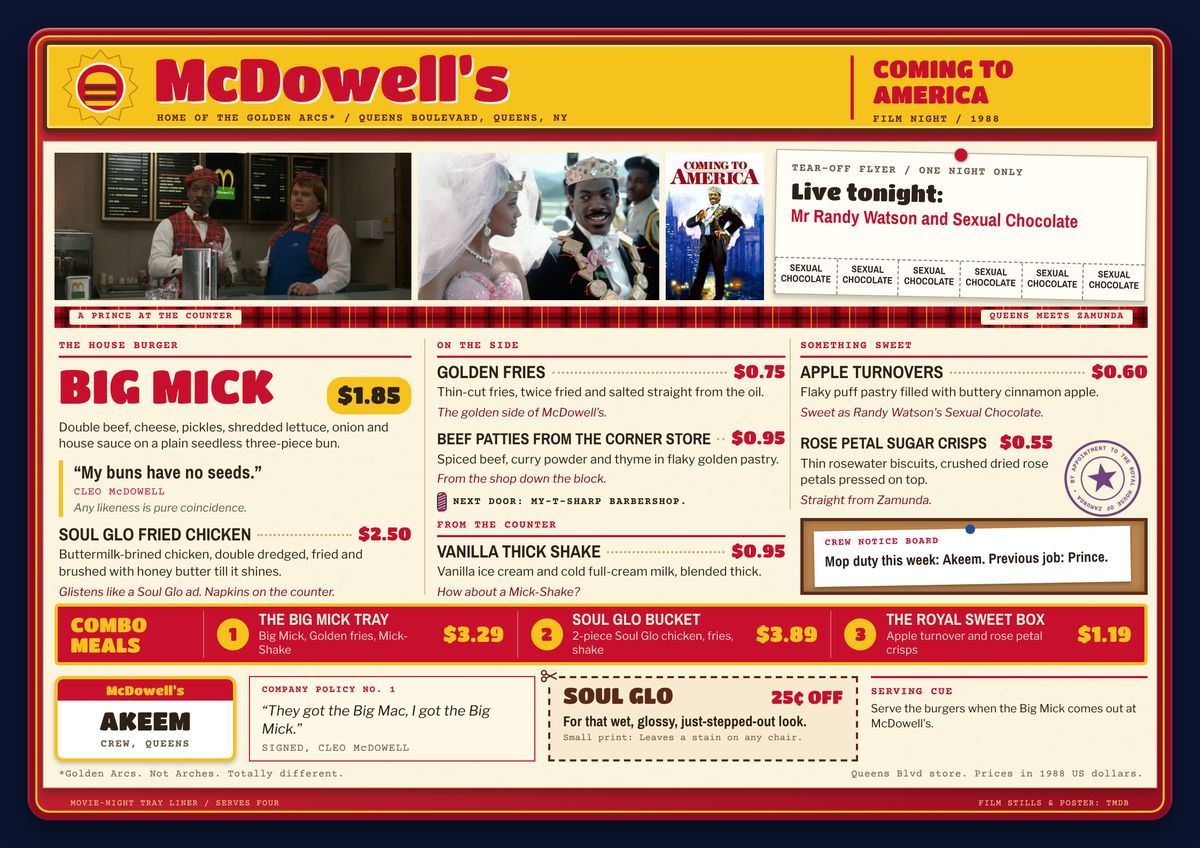
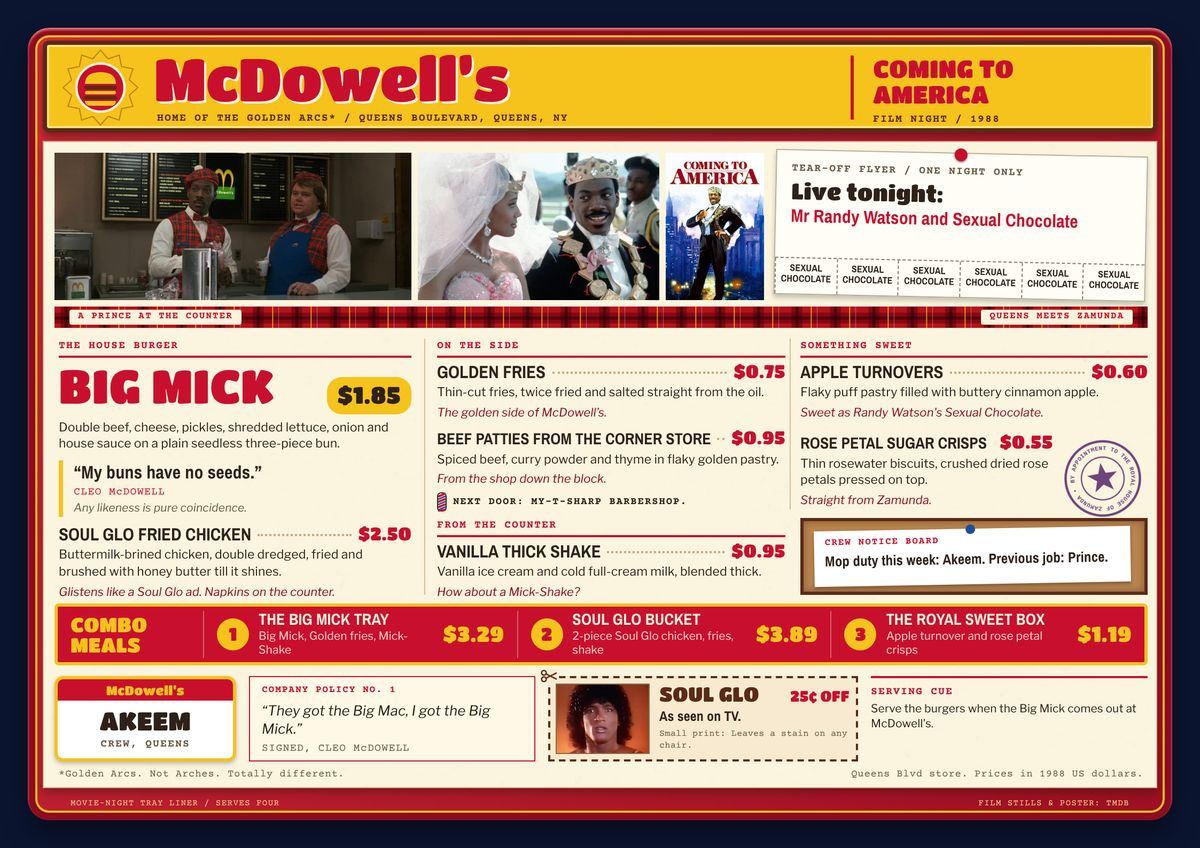
Coming to America: Soul Glo coupon uses the film's ad frame
Claude-Session: https://claude.ai/code/session_01W3UAnBZ4mb6waFnyzW2A4e

Changed region(s): [[0.4625, 0.7972, 0.7092, 0.8892]]

diff --git a/formats-core.js b/formats-core.js
@@ -209,7 +209,7 @@ function fmtMcdowellsMark(style=""){
 
 /* which film uses which printed menu, and the version of each menu file (generated) */
 const FMT_INDEX={"There's Something About Mary (1998)":"nowshowing","She's All That (1999)":"seniorprom","The Big Lebowski (1998)":"starlanes","Hook (1991)":"neverfeast","Planes, Trains and Automobiles (1987)":"braidwood","Wall-E (2008)":"axiom","Sleepless in Seattle (1993)":"latenightcall","You've Got Mail (1998)":"bookshopcafe","Tootsie (1982)":"dorothysupper","Manhattan (1979)":"gershwinfolio","Annie Hall (1977)":"annietable","Trading Places (1983)":"orangefutures","Quick Change (1990)":"getawaysupper","Brewster's Millions (1985)":"spenditall","The Secret of My Success (1987)":"mailroomexecutive","Working Girl (1988)":"powerlunch","Three Men and a Baby (1987)":"loftsupper","Splash (1984)":"oceansupper","Big (1988)":"toystore","C.H.U.D. (1984)":"bowerybelow","The Out-of-Towners (1970)":"eventually","The Adjustment Bureau (2011)":"unplanned","Frequency (2000)":"sullivansupper","16 Blocks (2006)":"sixteen","Premium Rush (2012)":"messenger","After Hours (1985)":"sohoaftermidnight","Money Train (1995)":"lasttrain","Inside Man (2006)":"negotiation","Léon: The Professional (1994)":"leon","Die Hard with a Vengeance (1995)":"cityrun","Ghost Dog: The Way of the Samurai (1999)":"rooftop","King of New York (1990)":"plazanight","Escape from New York (1981)":"escape","The Taking of Pelham One Two Three (1974)":"shift","The French Connection (1971)":"acrossglass","Serpico (1973)":"serpico","Dog Day Afternoon (1975)":"brooklyn","Midnight Cowboy (1969)":"southbound","Taxi Driver (1976)":"nightshift","Home Alone 2: Lost in New York (1992)":"suite","Spider-Man (2002)":"maytable","Spider-Man 2 (2004)":"pizzatime","Teenage Mutant Ninja Turtles II: The Secret of the Ooze (1991)":"ooze","Teenage Mutant Ninja Turtles III (1993)":"teahouse","Teenage Mutant Ninja Turtles: Mutant Mayhem (2023)":"shipyard","Ghostbusters II (1989)":"moodslime","Road to Perdition (2002)":"perdition","The Departed (2006)":"southie","Things to Do in Denver When You're Dead (1995)":"boatdrinks","Saturday Night Fever (1977)":"fever","Raging Bull (1980)":"cornerside","The Freshman (1990)":"carmine","Get Shorty (1995)":"shorty","Bugsy (1991)":"flamingo","Miller's Crossing (1990)":"highhat","The Pope of Greenwich Village (1984)":"village","Mickey Blue Eyes (1999)":"collection","Analyze This (1999)":"sobelsupper","Prizzi's Honor (1985)":"prizzis","Scarface (1983)":"miami","Mean Streets (1973)":"afterhours","Donnie Brasco (1997)":"leftys","Carlito's Way (1993)":"paraiso","Once Upon a Time in America (1984)":"delancey","The Godfather Part III (1990)":"palermo","Casino (1995)":"tangiers","A Bronx Tale (1993)":"bippy","The Godfather Part II (1974)":"corleone2","Beetlejuice (1988)":"maitland","A Goofy Movie (1995)":"roadtrip","The Godfather (1972)":"corleone","Julie & Julia (2009)":"kitchenfolio","Moonstruck (1987)":"moonlit","Elf (2003)":"gimbels","Teenage Mutant Ninja Turtles (1990)":"lair","Lady and the Tramp (1955)":"tonys","Fried Green Tomatoes (1991)":"whistle","Do the Right Thing (1989)":"sals","Coming to America (1988)":"mcdowells","The Warriors (1979)":"coney","Die Hard (1988)":"nakatomi","Jurassic Park (1993)":"jurassic","Anchorman: The Legend of Ron Burgundy (2004)":"newsroom","Friday (1995)":"market","Big Trouble in Little China (1986)":"takeaway","My Cousin Vinny (1992)":"diner","The Untouchables (1987)":"casefile","Kung Fu Panda (2008)":"noodle","Pulp Fiction (1994)":"slims","Ghostbusters (1984)":"workorder","Home Alone (1990)":"nero","Ratatouille (2007)":"carte","Big Night (1996)":"feast","Chef (2014)":"truck","When Harry Met Sally... (1989)":"check","Back to the Future (1985)":"lous","Goodfellas (1990)":"pad"};
-const FMT_VER={"nowshowing":"60b3a558","seniorprom":"c78b5f98","starlanes":"4feba724","neverfeast":"0c00ac91","braidwood":"442c9504","axiom":"f8e03639","latenightcall":"1475476e","bookshopcafe":"689047cc","dorothysupper":"5fa91721","gershwinfolio":"2e4bf01e","annietable":"c88d81ac","orangefutures":"0749771a","getawaysupper":"854458bc","spenditall":"9a4d8255","mailroomexecutive":"e11e5ab7","powerlunch":"59cf8bb7","loftsupper":"6b1a2522","oceansupper":"a89dff67","toystore":"0d412e45","bowerybelow":"c9ca6b12","eventually":"9fa6aeff","unplanned":"68fd28e6","sullivansupper":"0549db08","sixteen":"556ddea0","messenger":"516f5b79","sohoaftermidnight":"0bb9d0fd","lasttrain":"0f7f7649","negotiation":"d9772c2d","leon":"b3f54011","cityrun":"9ec4405f","rooftop":"c201e934","plazanight":"35555ec1","escape":"ade3d671","shift":"3a70df1f","acrossglass":"ec59189c","serpico":"d49eef24","brooklyn":"43c49f45","southbound":"2da4c7a7","nightshift":"d1f20baa","suite":"703595f2","maytable":"ca24b9ce","pizzatime":"b2e7803a","ooze":"6f871e9b","teahouse":"62cd890d","shipyard":"8b997681","moodslime":"2fa8c10a","perdition":"4791e1c6","southie":"3bd96e13","boatdrinks":"c917ad7a","fever":"0a388942","cornerside":"bb714ec0","carmine":"f0659482","shorty":"80f3713a","flamingo":"5a3d8c6f","highhat":"dfca9aa5","village":"1d812eb5","collection":"e6f1415a","sobelsupper":"b4ac0553","prizzis":"c0685334","miami":"5b01df05","afterhours":"12faf3dc","leftys":"1764047e","paraiso":"17aa7e2b","delancey":"c6a94fb0","palermo":"848e2947","tangiers":"eea8d69f","bippy":"8f3b86a9","corleone2":"f0de1673","maitland":"622a2580","roadtrip":"c1b6590e","corleone":"3f18e541","chocolaterie":"bf482065","kitchenfolio":"4fea8c09","moonlit":"000ce340","gimbels":"a4fb9329","lair":"8cc54514","tonys":"df195b83","whistle":"4c68500e","sals":"1e5a20e6","mcdowells":"8cc3beda","coney":"da70e5bd","nakatomi":"f35da938","jurassic":"bd68e70b","newsroom":"8322f147","market":"9a3f9784","takeaway":"17240719","diner":"dc916095","casefile":"2aa139fb","noodle":"730e24a2","slims":"cffe1181","lanes":"bf7ab162","workorder":"5b705856","nero":"3b408b04","carte":"368016cb","feast":"ab37a96b","truck":"fefb1507","check":"fc5f5414","lous":"73d83092","pad":"1482658a"};
+const FMT_VER={"nowshowing":"60b3a558","seniorprom":"c78b5f98","starlanes":"4feba724","neverfeast":"0c00ac91","braidwood":"442c9504","axiom":"f8e03639","latenightcall":"1475476e","bookshopcafe":"689047cc","dorothysupper":"5fa91721","gershwinfolio":"2e4bf01e","annietable":"c88d81ac","orangefutures":"0749771a","getawaysupper":"854458bc","spenditall":"9a4d8255","mailroomexecutive":"e11e5ab7","powerlunch":"59cf8bb7","loftsupper":"6b1a2522","oceansupper":"a89dff67","toystore":"0d412e45","bowerybelow":"c9ca6b12","eventually":"9fa6aeff","unplanned":"68fd28e6","sullivansupper":"0549db08","sixteen":"556ddea0","messenger":"516f5b79","sohoaftermidnight":"0bb9d0fd","lasttrain":"0f7f7649","negotiation":"d9772c2d","leon":"b3f54011","cityrun":"9ec4405f","rooftop":"c201e934","plazanight":"35555ec1","escape":"ade3d671","shift":"3a70df1f","acrossglass":"ec59189c","serpico":"d49eef24","brooklyn":"43c49f45","southbound":"2da4c7a7","nightshift":"d1f20baa","suite":"703595f2","maytable":"ca24b9ce","pizzatime":"b2e7803a","ooze":"6f871e9b","teahouse":"62cd890d","shipyard":"8b997681","moodslime":"2fa8c10a","perdition":"4791e1c6","southie":"3bd96e13","boatdrinks":"c917ad7a","fever":"0a388942","cornerside":"bb714ec0","carmine":"f0659482","shorty":"80f3713a","flamingo":"5a3d8c6f","highhat":"dfca9aa5","village":"1d812eb5","collection":"e6f1415a","sobelsupper":"b4ac0553","prizzis":"c0685334","miami":"5b01df05","afterhours":"12faf3dc","leftys":"1764047e","paraiso":"17aa7e2b","delancey":"c6a94fb0","palermo":"848e2947","tangiers":"eea8d69f","bippy":"8f3b86a9","corleone2":"f0de1673","maitland":"622a2580","roadtrip":"c1b6590e","corleone":"3f18e541","chocolaterie":"bf482065","kitchenfolio":"4fea8c09","moonlit":"000ce340","gimbels":"a4fb9329","lair":"8cc54514","tonys":"df195b83","whistle":"4c68500e","sals":"1e5a20e6","mcdowells":"a13edec6","coney":"da70e5bd","nakatomi":"f35da938","jurassic":"bd68e70b","newsroom":"8322f147","market":"9a3f9784","takeaway":"17240719","diner":"dc916095","casefile":"2aa139fb","noodle":"730e24a2","slims":"cffe1181","lanes":"bf7ab162","workorder":"5b705856","nero":"3b408b04","carte":"368016cb","feast":"ab37a96b","truck":"fefb1507","check":"fc5f5414","lous":"73d83092","pad":"1482658a"};
 const _fmtLoads={};
 /* fetch a film's menu file the first time it is needed; resolves straight away when there is none */
 function fmtLoad(f){

diff --git a/formats.js b/formats.js
@@ -1571,7 +1571,7 @@ function fmtMcdowells(f,spec,menu,poster){
   const combos=`<div style="${at(10,432,1023,`height:58px;background:${R};border:3px solid ${Y};border-radius:4px;display:flex;align-items:center;box-sizing:border-box`)}"><div style="flex:none;width:136px;padding-left:12px"><div style="${D};font-size:19px;line-height:1;color:${Y}">COMBO<br>MEALS</div></div>${combo(1,'The Big Mick tray','Big Mick, Golden fries, Mick-Shake','$3.29')}${combo(2,'Soul Glo bucket','2-piece Soul Glo chicken, fries, shake','$3.89')}${combo(3,'The royal sweet box','Apple turnover and rose petal crisps','$1.19')}</div>`;
   const badge=`<div style="${at(10,500,170,`height:80px;background:#fff;border:3px solid ${Y};border-radius:8px;box-shadow:0 2px 4px rgba(0,0,0,.25);overflow:hidden;box-sizing:border-box`)}"><div style="background:${R};height:20px;${D};font-size:12px;line-height:20px;text-align:center;color:${Y}">McDowell’s</div><div style="${D};font-size:24px;line-height:1.05;text-align:center;color:${I};margin-top:6px">AKEEM</div>${micro('Crew, Queens',M,'text-align:center;margin-top:3px')}</div>`;
   const policy=`<div style="${at(192,500,268,`height:80px;border:1.5px solid ${R};background:#fff8e6;padding:7px 11px;box-sizing:border-box`)}">${micro('Company policy no. 1',R,'font-size:9px')}<div style="${B};font-style:italic;font-size:13px;line-height:1.3;color:${I};margin-top:4px">"They got the Big Mac, I got the Big Mick."</div><div style="${T};font-size:10px;letter-spacing:.06em;color:${M};margin-top:4px">SIGNED, CLEO McDOWELL</div></div>`;
-  const coupon=`<div style="${at(472,500,290,`height:80px;border:2px dashed ${BROWN};background:#f8ead0;padding:6px 12px;box-sizing:border-box`)}"><img src="assets/menu-art/mcdowells-scissors.png" alt="" aria-hidden="true" style="position:absolute;left:-9px;top:-8px;background:#f8ead0;width:16px;height:12px;display:block"><div style="display:flex;justify-content:space-between;align-items:baseline"><div style="${D};font-size:21px;line-height:1;color:${BROWN}">SOUL GLO</div><div style="${D};font-size:17px;color:${R}">25¢ OFF</div></div><div style="${N};font-size:13.5px;font-weight:700;line-height:1.2;color:${I};margin-top:3px">For that wet, glossy, just-stepped-out look.</div><div style="${T};font-size:9px;line-height:1.3;color:${M};margin-top:3px">Small print: Leaves a stain on any chair.</div></div>`;
+  const coupon=`<div style="${at(472,500,290,`height:80px;border:2px dashed ${BROWN};background:#f8ead0;box-sizing:border-box`)}"><img src="assets/menu-art/mcdowells-scissors.png" alt="" aria-hidden="true" style="position:absolute;left:-9px;top:-8px;background:#f8ead0;width:16px;height:12px;display:block"><img src="assets/menu-art/mcdowells-soulglo.png" alt="Frame from the Soul Glo TV ad in the film" style="${at(5,5,88,'height:66px;object-fit:cover;display:block;border:1px solid #8a6a4a')}"><div style="${at(102,5,178)}"><div style="display:flex;justify-content:space-between;align-items:baseline"><div style="${D};font-size:19px;line-height:1;color:${BROWN}">SOUL GLO</div><div style="${D};font-size:14px;color:${R}">25¢ OFF</div></div><div style="${N};font-size:13px;font-weight:700;line-height:1.15;color:${I};margin-top:4px">As seen on TV.</div><div style="${T};font-size:8.5px;line-height:1.25;color:${M};margin-top:3px">Small print: Leaves a stain on any chair.</div></div></div>`;
   const cue=`<div style="${at(774,500,259,`height:80px;border-top:2px solid ${R};padding-top:6px;box-sizing:border-box`)}">${micro('Serving cue')}<div style="${B};font-size:10.5px;line-height:1.35;color:${I};margin-top:3px">${ESC(fmtCue(f))}</div></div>`;
   const notice=`<div style="${at(708,352,325,`height:72px;background:${CORK};border:3px solid ${BROWN};box-sizing:border-box;box-shadow:inset 0 0 8px rgba(60,30,10,.4)`)}"><div style="${at(10,7,296,`height:52px;background:#fff;box-shadow:0 2px 3px rgba(0,0,0,.3);transform:rotate(-1deg);padding:6px 10px;box-sizing:border-box`)}"><i aria-hidden="true" style="${at(142,-4,9,`height:9px;border-radius:50%;background:#1d4f9c`)}"></i>${micro('Crew notice board',R,'font-size:9px')}<div style="${N};font-size:13.5px;font-weight:700;line-height:1.2;color:${I};margin-top:2px">Mop duty this week: Akeem. Previous job: Prince.</div></div></div>`;
   const liner=`<section style="${at(14,106,1043,`height:606px;background:${P};box-shadow:0 4px 9px rgba(47,17,11,.43);border:1px solid #c9b28a;overflow:hidden`)}"><img src="assets/hero/paper.webp" alt="" aria-hidden="true" style="position:absolute;inset:0;width:100%;height:100%;object-fit:cover;opacity:.09;pointer-events:none">

diff --git a/formats/mcdowells.js b/formats/mcdowells.js
@@ -27,7 +27,7 @@ function fmtMcdowells(f,spec,menu,poster){
   const combos=`<div style="${at(10,432,1023,`height:58px;background:${R};border:3px solid ${Y};border-radius:4px;display:flex;align-items:center;box-sizing:border-box`)}"><div style="flex:none;width:136px;padding-left:12px"><div style="${D};font-size:19px;line-height:1;color:${Y}">COMBO<br>MEALS</div></div>${combo(1,'The Big Mick tray','Big Mick, Golden fries, Mick-Shake','$3.29')}${combo(2,'Soul Glo bucket','2-piece Soul Glo chicken, fries, shake','$3.89')}${combo(3,'The royal sweet box','Apple turnover and rose petal crisps','$1.19')}</div>`;
   const badge=`<div style="${at(10,500,170,`height:80px;background:#fff;border:3px solid ${Y};border-radius:8px;box-shadow:0 2px 4px rgba(0,0,0,.25);overflow:hidden;box-sizing:border-box`)}"><div style="background:${R};height:20px;${D};font-size:12px;line-height:20px;text-align:center;color:${Y}">McDowell’s</div><div style="${D};font-size:24px;line-height:1.05;text-align:center;color:${I};margin-top:6px">AKEEM</div>${micro('Crew, Queens',M,'text-align:center;margin-top:3px')}</div>`;
   const policy=`<div style="${at(192,500,268,`height:80px;border:1.5px solid ${R};background:#fff8e6;padding:7px 11px;box-sizing:border-box`)}">${micro('Company policy no. 1',R,'font-size:9px')}<div style="${B};font-style:italic;font-size:13px;line-height:1.3;color:${I};margin-top:4px">"They got the Big Mac, I got the Big Mick."</div><div style="${T};font-size:10px;letter-spacing:.06em;color:${M};margin-top:4px">SIGNED, CLEO McDOWELL</div></div>`;
-  const coupon=`<div style="${at(472,500,290,`height:80px;border:2px dashed ${BROWN};background:#f8ead0;padding:6px 12px;box-sizing:border-box`)}"><img src="assets/menu-art/mcdowells-scissors.png" alt="" aria-hidden="true" style="position:absolute;left:-9px;top:-8px;background:#f8ead0;width:16px;height:12px;display:block"><div style="display:flex;justify-content:space-between;align-items:baseline"><div style="${D};font-size:21px;line-height:1;color:${BROWN}">SOUL GLO</div><div style="${D};font-size:17px;color:${R}">25¢ OFF</div></div><div style="${N};font-size:13.5px;font-weight:700;line-height:1.2;color:${I};margin-top:3px">For that wet, glossy, just-stepped-out look.</div><div style="${T};font-size:9px;line-height:1.3;color:${M};margin-top:3px">Small print: Leaves a stain on any chair.</div></div>`;
+  const coupon=`<div style="${at(472,500,290,`height:80px;border:2px dashed ${BROWN};background:#f8ead0;box-sizing:border-box`)}"><img src="assets/menu-art/mcdowells-scissors.png" alt="" aria-hidden="true" style="position:absolute;left:-9px;top:-8px;background:#f8ead0;width:16px;height:12px;display:block"><img src="assets/menu-art/mcdowells-soulglo.png" alt="Frame from the Soul Glo TV ad in the film" style="${at(5,5,88,'height:66px;object-fit:cover;display:block;border:1px solid #8a6a4a')}"><div style="${at(102,5,178)}"><div style="display:flex;justify-content:space-between;align-items:baseline"><div style="${D};font-size:19px;line-height:1;color:${BROWN}">SOUL GLO</div><div style="${D};font-size:14px;color:${R}">25¢ OFF</div></div><div style="${N};font-size:13px;font-weight:700;line-height:1.15;color:${I};margin-top:4px">As seen on TV.</div><div style="${T};font-size:8.5px;line-height:1.25;color:${M};margin-top:3px">Small print: Leaves a stain on any chair.</div></div></div>`;
   const cue=`<div style="${at(774,500,259,`height:80px;border-top:2px solid ${R};padding-top:6px;box-sizing:border-box`)}">${micro('Serving cue')}<div style="${B};font-size:10.5px;line-height:1.35;color:${I};margin-top:3px">${ESC(fmtCue(f))}</div></div>`;
   const notice=`<div style="${at(708,352,325,`height:72px;background:${CORK};border:3px solid ${BROWN};box-sizing:border-box;box-shadow:inset 0 0 8px rgba(60,30,10,.4)`)}"><div style="${at(10,7,296,`height:52px;background:#fff;box-shadow:0 2px 3px rgba(0,0,0,.3);transform:rotate(-1deg);padding:6px 10px;box-sizing:border-box`)}"><i aria-hidden="true" style="${at(142,-4,9,`height:9px;border-radius:50%;background:#1d4f9c`)}"></i>${micro('Crew notice board',R,'font-size:9px')}<div style="${N};font-size:13.5px;font-weight:700;line-height:1.2;color:${I};margin-top:2px">Mop duty this week: Akeem. Previous job: Prince.</div></div></div>`;
   const liner=`<section style="${at(14,106,1043,`height:606px;background:${P};box-shadow:0 4px 9px rgba(47,17,11,.43);border:1px solid #c9b28a;overflow:hidden`)}"><img src="assets/hero/paper.webp" alt="" aria-hidden="true" style="position:absolute;inset:0;width:100%;height:100%;object-fit:cover;opacity:.09;pointer-events:none">

diff --git a/index.html b/index.html
@@ -3507,7 +3507,7 @@ button.acct-stat:focus-visible{outline:3px solid var(--gv-teal);outline-offset:2
 <script src="providers.js?v=a7e59ee5" defer></script>
 <script src="films.js?v=377c8d19" defer></script>
 <script src="assets/fonts/fonts.js?v=d8909e45" defer></script>
-<script src="formats-core.js?v=bc9b7442" defer></script>
+<script src="formats-core.js?v=81b918f1" defer></script>
 <script src="search.js?v=db80a47a" defer></script>
 <script src="account.js?v=a9edd7c8" defer></script>
 <script src="app.js?v=e3d60a2d" defer></script>

diff --git a/sw.js b/sw.js
@@ -10,7 +10,7 @@
    Fonts (assets/fonts/files) and the save tools (assets/lib): saved the first time a menu or a save needs them,
    never all at once. Their names change whenever their content does, so they sit in their own store that app updates
    leave alone, and a menu that worked offline once keeps working after an update. */
-const VERSION = 'mns-0f7c1239';
+const VERSION = 'mns-7b50c6c6';
 const FILMS_CACHE = 'mns-films';
 const IMAGES_CACHE = 'mns-images';
 const STATIC_CACHE = 'mns-static';
